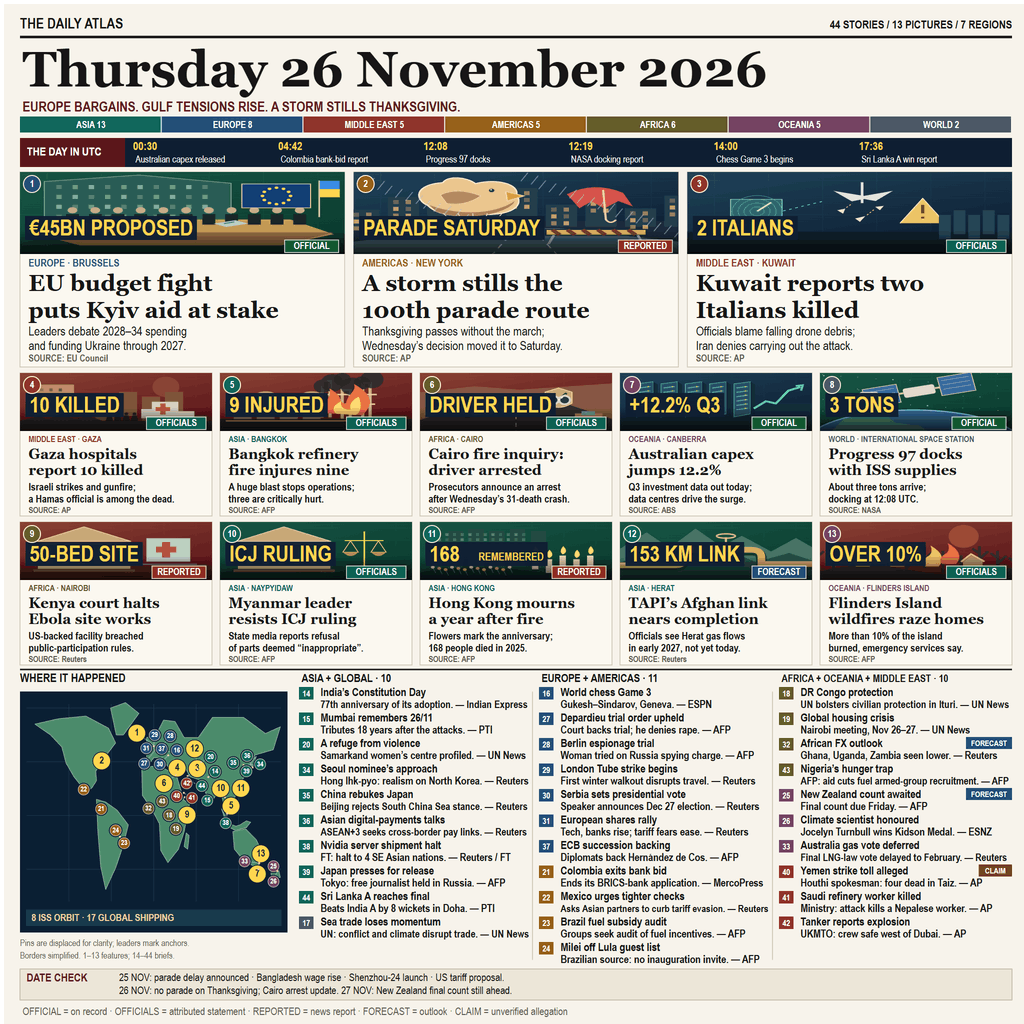
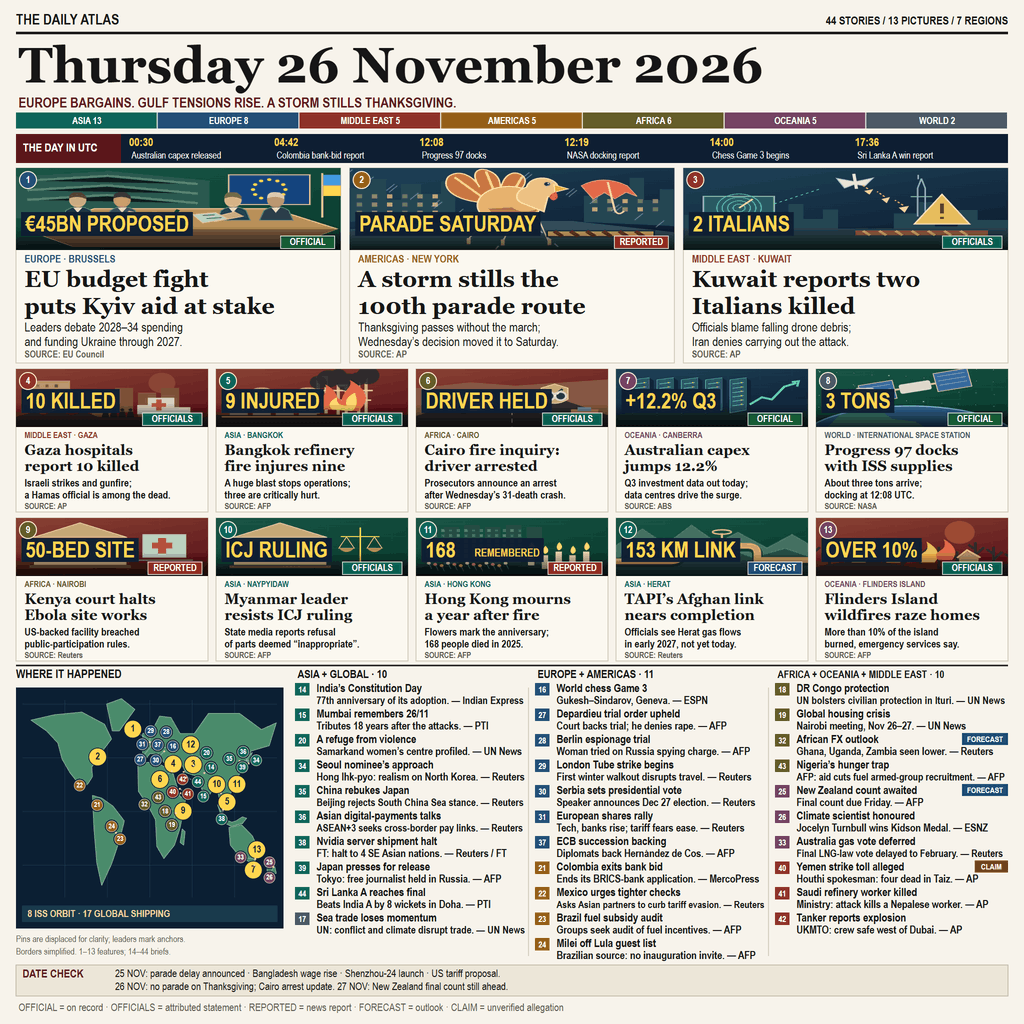
Clarify lead news scenes and repair source provenance

diff --git a/README.md b/README.md
@@ -31,10 +31,10 @@ The image is rendered at 2048 square in Chromium, downsampled with Lanczos3 to
 provide the typography. Rendering is a development task; the sandbox only
 copies the already-rendered image.
 
-The reviewed artwork is the R3 candidate. To rebuild it, provide a separate
+The reviewed artwork is the N1 candidate. To rebuild it, provide a separate
 development package containing `playwright` and `sharp`, set
 `ATLAS_RENDER_PACKAGES` to that package's `package.json`, and set
-`ATLAS_CHROME_PATH` to a Chromium executable. Run `node tools/render.mjs R3`.
+`ATLAS_CHROME_PATH` to a Chromium executable. Run `node tools/render.mjs N1`.
 Use the same installed fonts for matching typography. Alternative rendering
 passes remain available for comparison; the runtime always copies `entry.png`.
 
@@ -49,6 +49,11 @@ the complete ledger, retain the credited outlet, and mark forecasts and claims
 with explicit tags. Dark map-pin outlines and framed feature status labels
 separate the numbered locations and attribution from their backgrounds.
 
+The three lead scenes use original narrative artwork: a budget negotiation,
+a tethered turkey parade balloon in bad weather, and falling debris above a
+radar station. The later expanded-layout and inset-map experiments remain
+available for comparison; the reviewed image keeps the unified world map.
+
 The date-check strip distinguishes the 25 November parade announcement from
 Thanksgiving's interrupted parade day, and the 25 November Cairo crash from
 the 26 November arrest update. The Hong Kong feature is an anniversary, not a
@@ -59,7 +64,7 @@ Officials' statements and unverified allegations are attributed explicitly.
 ESNZ in the image means Earth Sciences New Zealand. To regenerate the vector
 master, install `playwright` and `sharp` in an external development directory,
 set `ATLAS_RENDER_PACKAGES` to that directory's `package.json`, and set
-`ATLAS_CHROME_PATH` to its Chromium executable. Run `node tools/render.mjs R3`.
+`ATLAS_CHROME_PATH` to its Chromium executable. Run `node tools/render.mjs N1`.
 This development renderer is separate from the dependency-free sandbox entry.
 
 ## License
